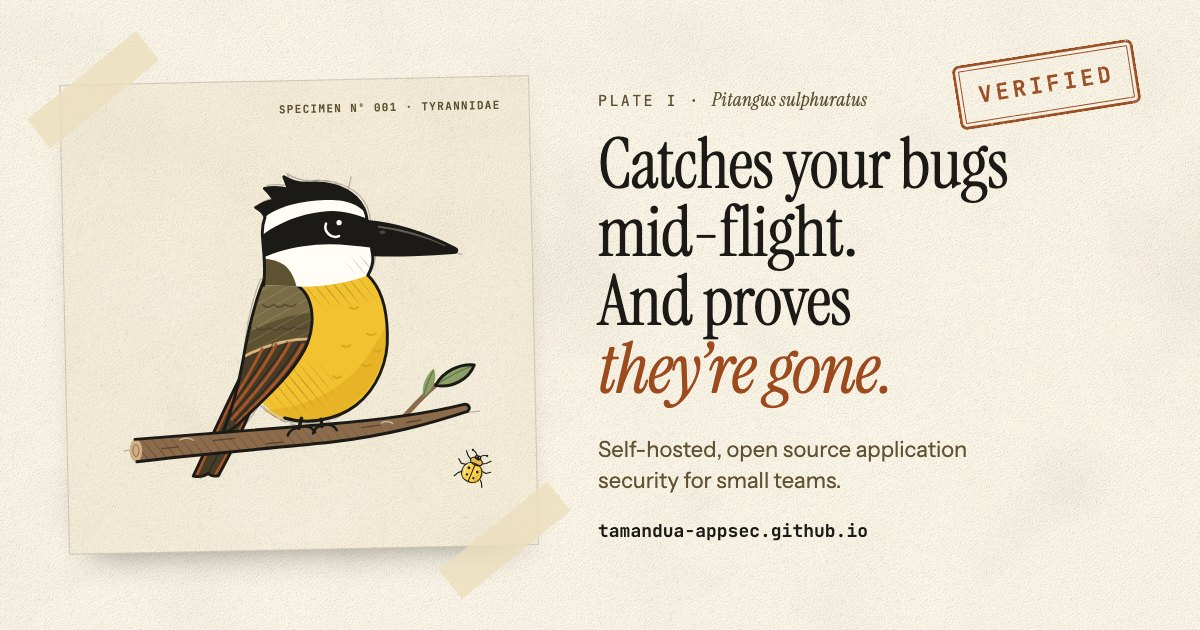
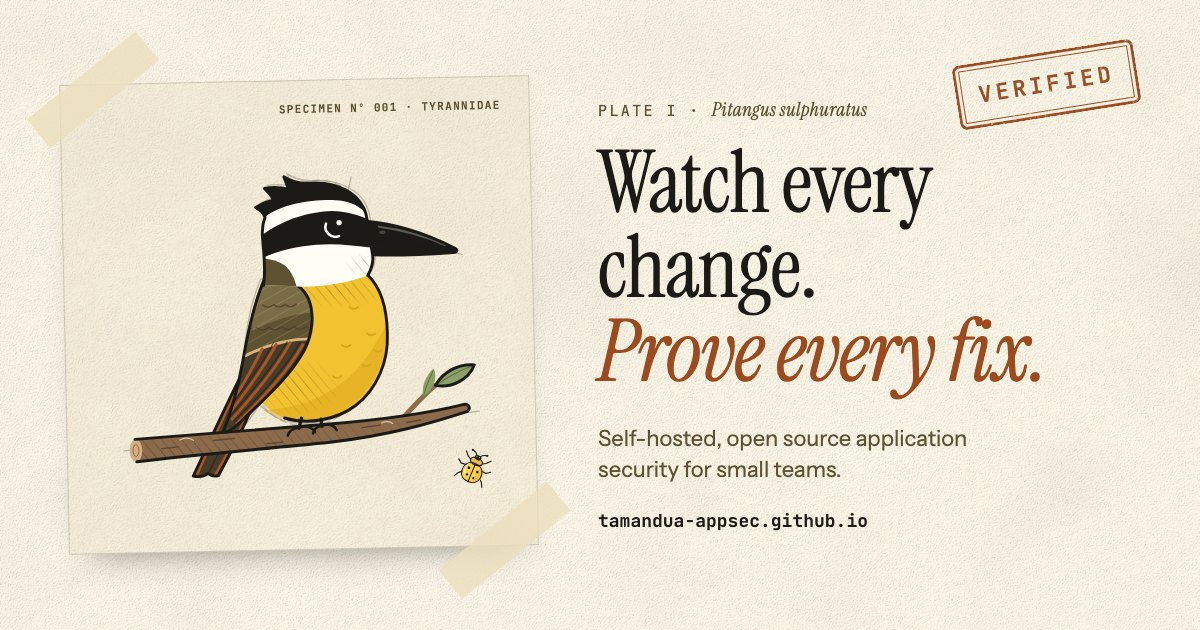
Titular «Vigila cada cambio. Demuestra cada corrección.» y eslogan de tres verbos
El titular dice qué hace el producto; el eslogan (Detéctalo. Corrígelo. Demuéstralo.) va en el lateral. La nota a mano se aparta de la lámina y se regeneran las imágenes para compartir.

diff --git a/src/i18n/content.ts b/src/i18n/content.ts
@@ -19,7 +19,7 @@ export const INSTALL = `git clone --branch ${RELEASE} https://github.com/Tamandu
 const en = {
   lang: 'en',
   meta: {
-    title: 'Pitangus · Catches your bugs mid-flight, and proves they are gone',
+    title: 'Pitangus · Watch every change. Prove every fix.',
     description: 'Self-hosted, open-source application security for small teams: scans your code, verifies every fix and keeps the evidence. In English and Spanish.',
   },
   nav: { label: 'Sections', specimens: 'Specimens', change: 'Your change', ledger: 'Ledger', install: 'Install', code: 'Code', other: 'Español', otherHref: '/es/' },
@@ -34,11 +34,12 @@ const en = {
     habitat: 'Habitat: your repositories. Diet: bugs.',
     record: 'Specimen Nº 001 · Tyrannidae',
     marks: { bill: 'heavy bill', mask: 'black mask', breast: 'sulphur-yellow breast' },
-    title: ['Catches your bugs', 'mid-flight.', 'And proves', 'they’re gone.'],
+    title: ['Watch every change.', 'Prove every fix.'],
+    accent: 1,
     lead: 'Self-hosted application security for small teams. Pitangus scans your code, dependencies and secrets, tells you what each change introduces and what it fixes, and keeps the evidence an auditor can check.',
     primary: 'Install in 5 minutes',
     secondary: 'Read the code',
-    vertical: 'CATCHES YOUR BUGS MID-FLIGHT',
+    vertical: 'SPOT IT · FIX IT · PROVE IT',
     facts: ['Open source · AGPL-3.0', 'Runs on your server', 'No telemetry'],
   },
   specimens: {
@@ -165,7 +166,7 @@ const en = {
 const es: typeof en = {
   lang: 'es',
   meta: {
-    title: 'Pitangus · Atrapa tus bugs al vuelo, y demuestra que ya no están',
+    title: 'Pitangus · Vigila cada cambio. Demuestra cada corrección.',
     description: 'Seguridad de aplicaciones autoalojada y de código abierto para equipos pequeños: analiza tu código, verifica cada corrección y guarda la evidencia. En español y en inglés.',
   },
   nav: { label: 'Secciones', specimens: 'Especímenes', change: 'Tu cambio', ledger: 'Registro', install: 'Instalar', code: 'Código', other: 'English', otherHref: '/' },
@@ -180,11 +181,12 @@ const es: typeof en = {
     habitat: 'Hábitat: tus repositorios. Dieta: bugs.',
     record: 'Ejemplar Nº 001 · Tyrannidae',
     marks: { bill: 'pico robusto', mask: 'antifaz negro', breast: 'pecho amarillo azufre' },
-    title: ['Atrapa tus bugs', 'al vuelo.', 'Y demuestra', 'que ya no están.'],
+    title: ['Vigila cada cambio.', 'Demuestra', 'cada corrección.'],
+    accent: 1,
     lead: 'Seguridad de aplicaciones autoalojada para equipos pequeños. Pitangus analiza tu código, tus dependencias y tus secretos, te dice qué introduce y qué corrige cada cambio, y guarda la evidencia que un auditor puede comprobar.',
     primary: 'Instálalo en 5 minutos',
     secondary: 'Ver el código',
-    vertical: 'ATRAPA TUS BUGS AL VUELO',
+    vertical: 'DETÉCTALO · CORRÍGELO · DEMUÉSTRALO',
     facts: ['Código abierto · AGPL-3.0', 'Corre en tu servidor', 'Sin telemetría'],
   },
   specimens: {
